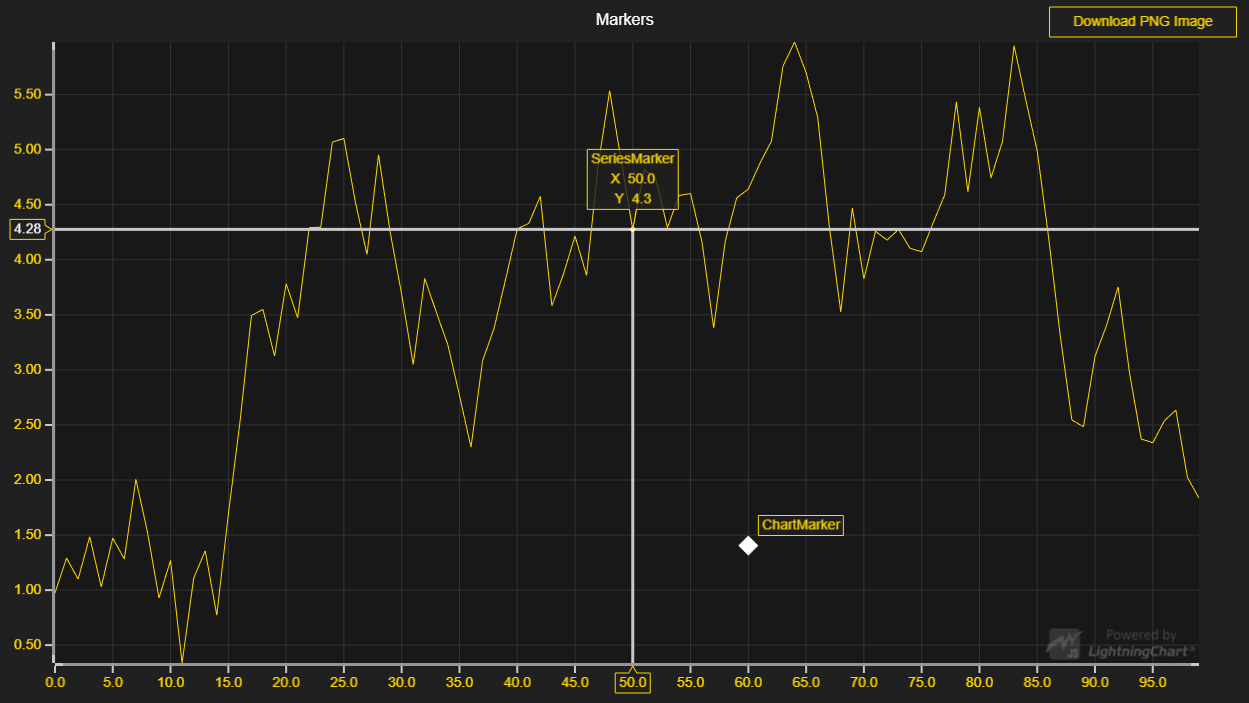
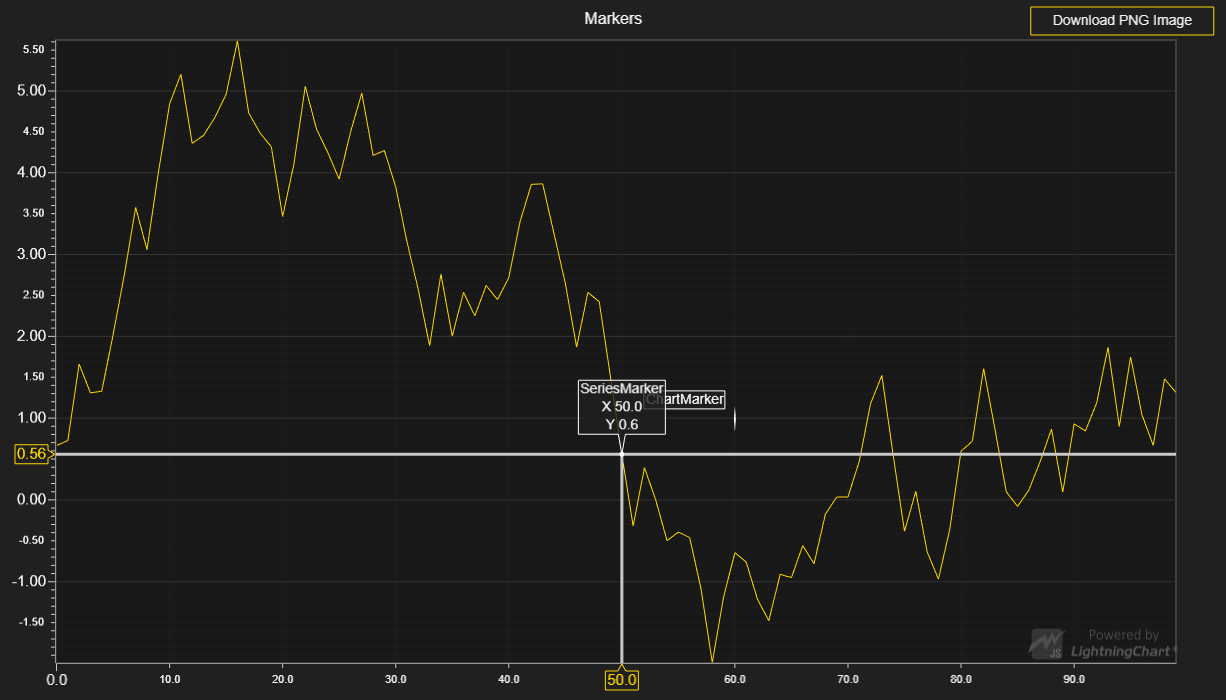
LCJS 2.0.0

diff --git a/src/index.js b/src/index.js
@@ -16,7 +16,8 @@ const {
     UIOrigins,
     DataPatterns,
     UIElementBuilders,
-    UIDraggingModes
+    UIDraggingModes,
+    Themes
 } = lcjs
 
 // Import data-generator from 'xydata'-library.
@@ -27,7 +28,9 @@ const {
 const chartTitle = 'Markers'
 
 // Create a XY Chart.
-const chart = lightningChart().ChartXY()
+const chart = lightningChart().ChartXY({
+    // theme: Themes.dark 
+})
     .setTitle(chartTitle)
     // Disable AutoCursor just for focusing on Markers.
     .setAutoCursorMode(AutoCursorModes.disabled)

diff --git a/README.md b/README.md
@@ -33,17 +33,17 @@ SeriesMarkers are a part of certain series (line-series, OHLC, ...?), that can b
 
 ## API Links
 
-* XY cartesian chart: [ChartXY]
-* cursor modes: [AutoCursorModes]
-* Progressive line series: [ProgressiveLineSeries]
-* Marker XY builder: [MarkerBuilders]
-* UI backgrounds: [UIBackgrounds]
-* RGBA color factory: [ColorRGBA]
-* UIDirections: [UIDirections]
-* Point marker: [PointMarker]
-* Result table: [ResultTable]
-* ChartXY marker: [ChartMarkerXY]
-* Visibility modes for Markers: [UIVisibilityModes]
+* [XY cartesian chart]
+* [cursor modes]
+* [Progressive line series]
+* [Marker XY builder]
+* [UI backgrounds]
+* [RGBA color factory]
+* [UIDirections]
+* [Point marker]
+* [Result table]
+* [ChartXY marker]
+* [Visibility modes for Markers]
 
 
 ## Support
@@ -67,15 +67,15 @@ Direct developer email support can be purchased through a [Support Plan][4] or b
 © Arction Ltd 2009-2020. All rights reserved.
 
 
-[ChartXY]: https://www.arction.com/lightningchart-js-api-documentation/v1.3.0/classes/chartxy.html
-[AutoCursorModes]: https://www.arction.com/lightningchart-js-api-documentation/v1.3.0/enums/autocursormodes.html
-[ProgressiveLineSeries]: https://www.arction.com/lightningchart-js-api-documentation/v1.3.0/classes/progressivelineseries.html
-[MarkerBuilders]: https://www.arction.com/lightningchart-js-api-documentation/v1.3.0/globals.html#markerbuilders
-[UIBackgrounds]: https://www.arction.com/lightningchart-js-api-documentation/v1.3.0/globals.html#uibackgrounds
-[ColorRGBA]: https://www.arction.com/lightningchart-js-api-documentation/v1.3.0/globals.html#colorrgba
-[UIDirections]: https://www.arction.com/lightningchart-js-api-documentation/v1.3.0/enums/uidirections.html
-[PointMarker]: https://www.arction.com/lightningchart-js-api-documentation/v1.3.0/interfaces/pointmarker.html
-[ResultTable]: https://www.arction.com/lightningchart-js-api-documentation/v1.3.0/interfaces/resulttable.html
-[ChartMarkerXY]: https://www.arction.com/lightningchart-js-api-documentation/v1.3.0/classes/chartmarkerxy.html
-[UIVisibilityModes]: https://www.arction.com/lightningchart-js-api-documentation/v1.3.0/enums/uivisibilitymodes.html
+[XY cartesian chart]: https://www.arction.com/lightningchart-js-api-documentation/v2.0.0/classes/chartxy.html
+[cursor modes]: https://www.arction.com/lightningchart-js-api-documentation/v2.0.0/enums/autocursormodes.html
+[Progressive line series]: https://www.arction.com/lightningchart-js-api-documentation/v2.0.0/classes/progressivelineseries.html
+[Marker XY builder]: https://www.arction.com/lightningchart-js-api-documentation/v2.0.0/globals.html#markerbuilders
+[UI backgrounds]: https://www.arction.com/lightningchart-js-api-documentation/v2.0.0/globals.html#uibackgrounds
+[RGBA color factory]: https://www.arction.com/lightningchart-js-api-documentation/v2.0.0/globals.html#colorrgba
+[UIDirections]: https://www.arction.com/lightningchart-js-api-documentation/v2.0.0/enums/uidirections.html
+[Point marker]: https://www.arction.com/lightningchart-js-api-documentation/v2.0.0/interfaces/pointmarker.html
+[Result table]: https://www.arction.com/lightningchart-js-api-documentation/v2.0.0/interfaces/resulttable.html
+[ChartXY marker]: https://www.arction.com/lightningchart-js-api-documentation/v2.0.0/classes/chartmarkerxy.html
+[Visibility modes for Markers]: https://www.arction.com/lightningchart-js-api-documentation/v2.0.0/enums/uivisibilitymodes.html
 
